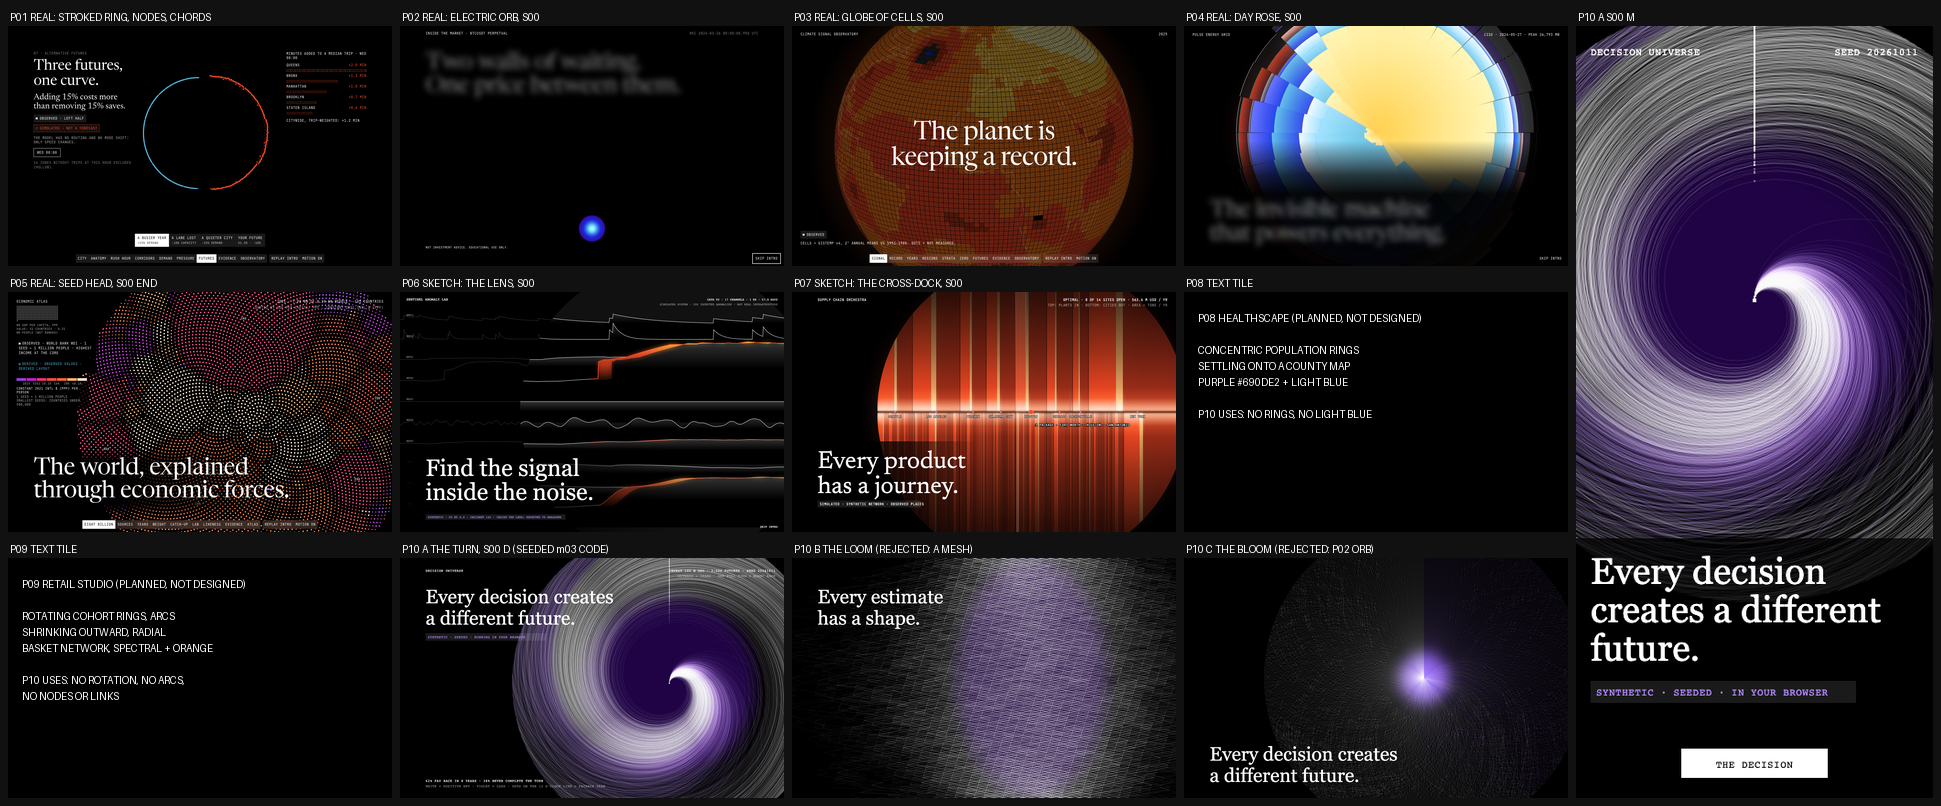
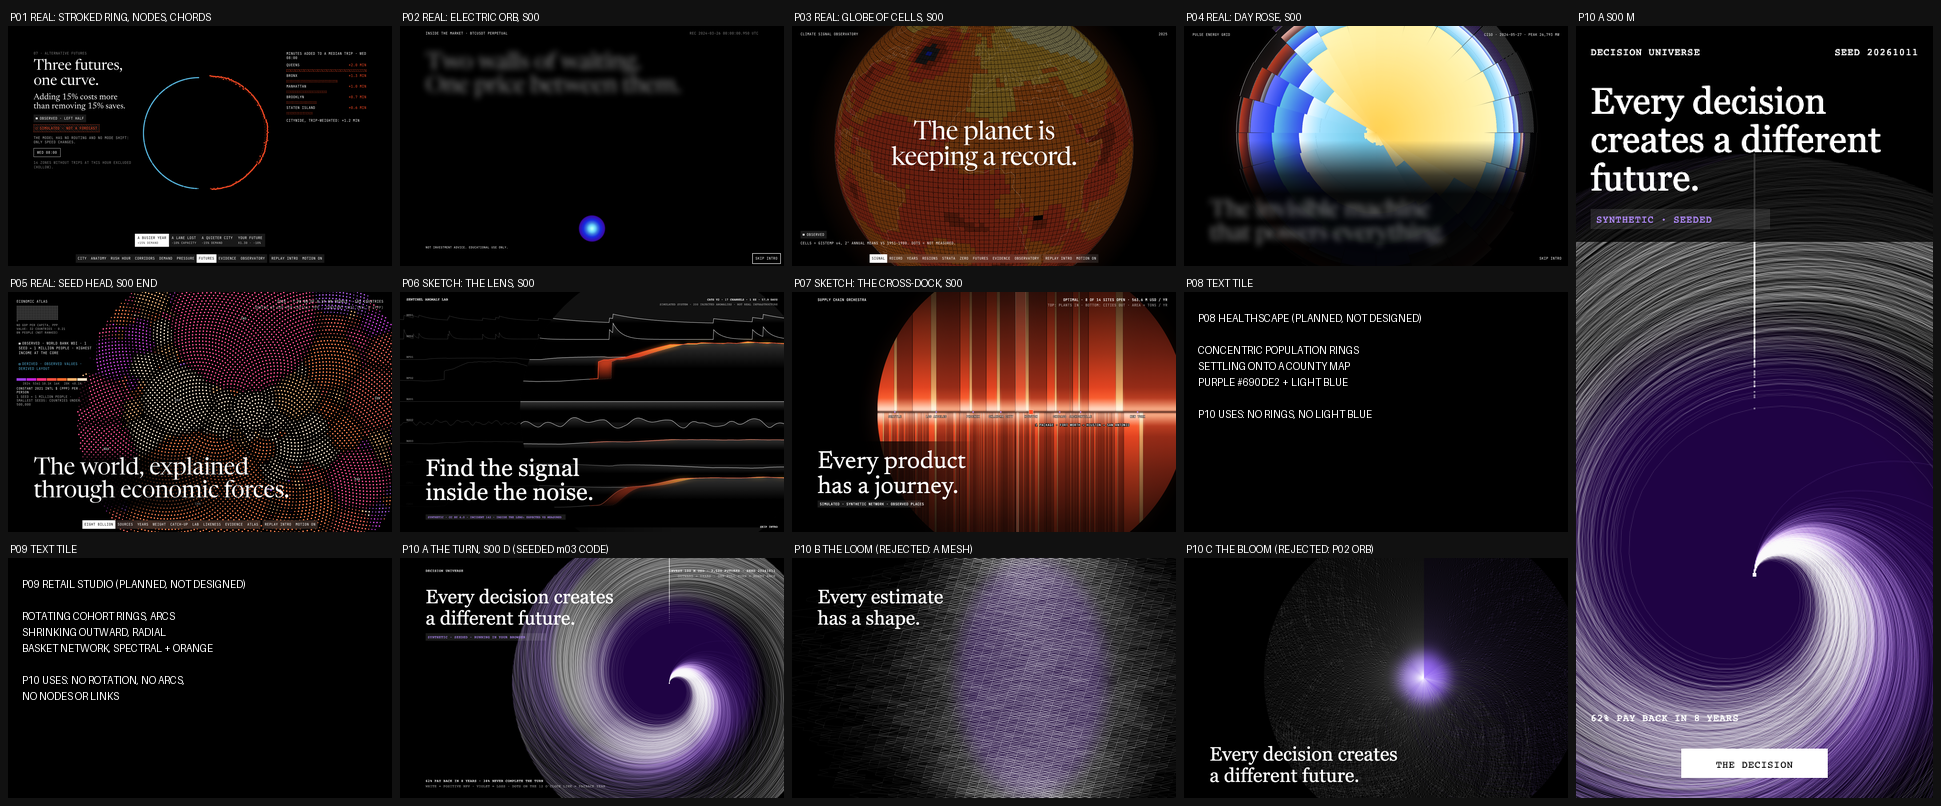
P10 creative: M statement-on-top composition, honest LAB parity table, compute-state chip, worker fallback
Claude-Session: https://claude.ai/code/session_01KTz1FYH3aWv8awYBpyrJYc

Changed region(s): [[0.8037, 0.031, 1.0, 0.9926]]

diff --git a/design/sketches/render_sketches.py b/design/sketches/render_sketches.py
@@ -115,15 +115,18 @@ def text_d(fs, cross):
 
 
 def text_m(fs, cross):
+    """M composition: statement at the TOP, the Turn below it (not P04/P05's disc-above, statement-below)."""
+    loss = sum(1 for _, v in fs if v < 0) / len(fs)
     return [
+        '<rect x="0" y="0" width="390" height="236" fill="#000" opacity=".78"/>',
         '<text x="16" y="32" font-size="11">DECISION UNIVERSE</text>',
         f'<text x="374" y="32" font-size="11" text-anchor="end">SEED {SEED}</text>',
-        '<rect x="0" y="560" width="390" height="284" fill="#000" opacity=".72"/>',
-        '<text class="serif" x="16" y="610" font-size="40">Every decision</text>',
-        '<text class="serif" x="16" y="652" font-size="40">creates a different</text>',
-        '<text class="serif" x="16" y="694" font-size="40">future.</text>',
-        '<rect x="16" y="716" width="290" height="24" fill="#ffffff1a"/>',
-        '<text x="22" y="732" font-size="11" style="fill:#b48cff">SYNTHETIC · SEEDED · IN YOUR BROWSER</text>',
+        '<text class="serif" x="16" y="96" font-size="40">Every decision</text>',
+        '<text class="serif" x="16" y="138" font-size="40">creates a different</text>',
+        '<text class="serif" x="16" y="180" font-size="40">future.</text>',
+        '<rect x="16" y="200" width="196" height="22" fill="#ffffff1a"/>',
+        '<text x="22" y="215" font-size="11" style="fill:#b48cff">SYNTHETIC · SEEDED</text>',
+        f'<text x="16" y="760" font-size="11">{round(100*(1-loss))}% PAY BACK IN 8 YEARS</text>',
         '<rect x="115" y="790" width="160" height="32" fill="#fff"/><text x="195" y="811" font-size="11" text-anchor="middle" style="fill:#000">THE DECISION</text>',
     ]
 
@@ -177,6 +180,6 @@ def bloom(name, w, h, n=1500):
 
 if __name__ == "__main__":
     turn("turn-s00-d", 1440, 900, 1010, 470, 590, 2500, text_d)
-    turn("turn-s00-m", 390, 844, 195, 300, 330, 1500, text_m)
+    turn("turn-s00-m", 390, 844, 195, 600, 460, 1500, text_m)
     loom("loom-s00-d", 1440, 900)
     bloom("bloom-s00-d", 1440, 900)

diff --git a/docs/VISUAL_DESIGN.md b/docs/VISUAL_DESIGN.md
@@ -60,6 +60,7 @@ These are inputs to the design. The design does not choose them.
   8. Attributions on screen: NBER Dehejia data page link plus the three papers (required by its terms), UCI German Credit citation (CC BY 4.0), Ishigami/Saltelli citations, HiGHS.
 - **Sketches** (original, rendered by `design/sketches/render_sketches.py` from the project's own seeded reference code; rasterized by `render_sheet.mjs`; composed by `compose_sheet.py`):
   - `turn-s00-d.png`, `turn-s00-m.png`: concept A at S00, D and M
+  - `m-sheet-p04-p05-p10.png`: the M composition beside the real P04 and P05 390x844 S00 frames
   - `loom-s00-d.png`: concept B (rejected)
   - `bloom-s00-d.png`: concept C, the plan's form (rejected)
   - `distinctness-sheet.png`: the contact-scale comparison against P01-P09
@@ -284,7 +285,7 @@ The FUTURES nav item targets S00's end state (top of page). Total about 2,550vh.
 
 | State | D 1440x900 | T 768x1024 | M 390x844 | Notes |
 |---|---|---|---|---|
-| **G0 Giant** (S00, S01 start, S08 echo) | c (1010, 470), **R 590** (diameter 1.31 x frame height). Left arc visible x 420-560 at mid-height; top, right and bottom cropped | c (470, 700), R 620 (1.21 x). Headline band x 48-520, y 96-300 over a left-to-right top scrim (x 0-540); the top arc visible upper right (x 560-768, y 80-200) outside the scrim; left, right and bottom cropped | c (195, 300), R 460 (diameter 1.09 x frame height, 2.36 x frame width). Centre and the 12 o'clock ray in view; headline band y 560-740 under a scrim | **Statement never lower-left on D/T** (review note). The decision square and at least 0.8R of the 12 o'clock ray are visible on every viewport. M is under 1.2 x height by design: a larger R hides the centre behind the statement |
+| **G0 Giant** (S00, S01 start, S08 echo) | c (1010, 470), **R 590** (diameter 1.31 x frame height). Left arc visible x 420-560 at mid-height; top, right and bottom cropped | c (470, 700), R 620 (1.21 x). Headline band x 48-520, y 96-300 over a left-to-right top scrim (x 0-540); the top arc visible upper right (x 560-768, y 80-200) outside the scrim; left, right and bottom cropped | c (195, 600), R 460 (diameter 1.09 x frame height, 2.36 x frame width). **Statement at the top** (y 64-230 over a top scrim), the Turn below it with the decision square at y 600 and the payback ladder rising toward the statement; the bottom is cropped behind the MENU pill. This is the inverse of P04's and P05's M (disc above, statement below), checked on `m-sheet-p04-p05-p10.png` | **Statement never lower-left on D/T** (review note). The decision square and at least 0.8R of the 12 o'clock ray are visible on every viewport (on M the ray from y 600 to y 232, 0.8R). M is under 1.2 x height by design: the centre must stay in the frame below the statement |
 | G1 Aside (S01 compare, S02-S03b backdrop at 20%) | c (1120, 470), R 330 | c (384, 700), R 280 | c (195, 250), R 170 | |
 | G2 Scene (S03a) | c (1000, 470), R 380 | c (384, 560), R 330 | c (195, 330), R 180 | |
 | PAIR (S01 step 2) | A c (700, 470), B c (1120, 470), R 230 each | c (384, 380) and (384, 760), R 170 | c (195, 270) and (195, 560), R 125 | Same draw indices, keyed; a hovered index lights in both |
@@ -292,7 +293,7 @@ The FUTURES nav item targets S00's end state (top of page). Total about 2,550vh.
 | G5 Lab (THE LAB) | c (980, 470), R 360 | c (384, 520), R 300 | c (195, 280), R 170 | |
 
 - **Interpolation.** Between states, `c` interpolates linearly and `R` in log space: camera moves only. They never animate data.
-- **Sketches.** `turn-s00-d.png` (G0 D) and `turn-s00-m.png` (an earlier M at R 330; the build uses R 460).
+- **Sketches.** `turn-s00-d.png` (G0 D) and `turn-s00-m.png` (G0 M at the spec geometry, statement on top). `m-sheet-p04-p05-p10.png` puts the M sketch beside the real P04 and P05 390x844 S00 frames: both of theirs are disc-above, statement-below; P10 M is statement-above, Turn-below.
 
 ### 3.4 Scenes
 
@@ -309,10 +310,10 @@ No spinners, no artificial delays.
 
 #### S00 Opening: the First Turn (overlay, 4.8s or less)
 
-- **Composition** (timeline in MOTION_SYSTEM 5.1): black; the mono wordmark top-left; the 4px decision square at G0 `c` with `INVEST 100 M USD?` beside it; eight beats (years 1-8): the threads extend outward one year per beat, together at first, separating as they wind; payback squares appear on the 12 o'clock ray as threads close; the glow fades in after beat 8; the headline sharpens; the nav enters.
-- **Per viewport:** D headline 72px, 2 lines, x 96, y 110-260, over a top-left scrim (x 0-760, y 0-330, black 88% to 0). T 56px, 3 lines, x 48, y 96-300, full-width top scrim. M 40px, 3 lines, y 580-700, scrim band y 540-760.
-- **Corner labels.** Top-left `DECISION UNIVERSE`. Top-right line 1 `INVEST {{investment_mean}} M USD · {{n}} FUTURES · SEED {{seed}}`; line 2 (50%) the unit line.
-- **Chip under the headline:** `SYNTHETIC · SEEDED · RUNNING IN YOUR BROWSER` from the first frame.
+- **Composition** (timeline in MOTION_SYSTEM 5.1): black; the mono wordmark top-left; the 4px decision square at G0 `c` with `INVEST 100 M USD?` (the median, see corner labels) beside it; eight beats (years 1-8): the threads extend outward one year per beat, together at first, separating as they wind; payback squares appear on the 12 o'clock ray as threads close; the glow fades in after beat 8; the headline sharpens; the nav enters.
+- **Per viewport:** D headline 72px, 2 lines, x 96, y 110-260, over a top-left scrim (x 0-760, y 0-330, black 88% to 0). T 56px, 3 lines, x 48-520, y 96-300, left-to-right top scrim. M 40px, 3 lines, y 64-180, top scrim y 0-236; the caption sits at y 750 above the MENU pill.
+- **Corner labels.** Top-left `DECISION UNIVERSE`. Top-right line 1 `INVEST {{investment_median}} M USD (MEDIAN) · {{n}} FUTURES · SEED {{seed}}`, where `investment_median = exp(m03.environment.investment.mu)` = 100 (the lognormal's mean is about 101.1, so it is never labelled as the mean); line 2 (50%) the unit line.
+- **Chip under the headline:** `SYNTHETIC · SEEDED` from the first frame. `· RUNNING IN YOUR BROWSER` is appended only when the worker has returned the paths (bound to the compute state, never static). **Worker failure fallback:** the same generator and path code (one TS module, imported by both) runs on the main thread for the LOW-tier 1,200 paths (a few ms), and the line reads `· RUNNING IN YOUR BROWSER (MAIN THREAD)`; the statement is still true.
 - **Caption bottom-left (D) / under the chip (T/M):** `{{payback_share}}% PAY BACK IN 8 YEARS · {{loss_share}}% NEVER COMPLETE THE TURN`; second line `WHITE = POSITIVE NPV · VIOLET = LOSS · SQUARES ON THE TOP LINE = PAYBACK YEAR`.
 - **LCP rule.** `h1[data-hero]` is in the DOM from first paint as ghost text; WebGL init waits for first paint; the threads are never on the LCP path.
 - **Insight.** One decision, thousands of futures; about six in ten close the circle.
@@ -380,9 +381,25 @@ Footer line on this scene: `EVERYTHING ELSE ON THIS SITE IS SYNTHETIC AND SEEDED
 
 #### THE LAB: ten instruments (normal flow, 100dvh minimum)
 
-- Left rail (floating glass controls, never a solid panel): the Turn's decision levers (DR-2 parameters), SEED (a number field; changing it re-runs everything seeded), FUTURES DRAWN.
+- Left rail (floating glass controls, never a solid panel): the Turn's decision levers (DR-2 parameters), SEED (a number field), FUTURES DRAWN.
 - The Turn at G5.
-- Under it, the **instrument list**: ten rows (`meta.modules`), each: number, name, tag chip, `RUN IN YOUR BROWSER`, result `MATCHES PYTHON REFERENCE (k OF k)` or `MISMATCH`, elapsed ms. `RUN ALL TEN`.
+- Under it, the **instrument list**: ten rows (`meta.modules`), each: number, name, tag chip, what runs where (below), `RUN IN YOUR BROWSER`, the result and elapsed ms. `RUN ALL TEN`.
+- **What actually runs in the browser** (from each artifact's `spec`, read 2026-10-11; the row prints its column 3 verbatim):
+
+| Module | Recomputed in the browser, with parity | Stays PRECOMPUTED · PYTHON REFERENCE | Seed that drives it |
+|---|---|---|---|
+| m01 Distributions | pdf, cdf, quantile on the published grids; normalization checks | none | none (deterministic) |
+| m02 Sampling | xoshiro128** u32 stream, uniforms, normals | none | the SEED field (vectors at 20261011 and the 3 `seed_vectors`) |
+| m03 Monte Carlo | the hero paths and the run summary; the `vectors` | the 100,000 convergence prefix shown as a table row | the SEED field (vectors at their own published seeds) |
+| m04 Bayes | conjugate posteriors, credible and confidence intervals, exact coverage, the sequential path | none | the sequential path: SEED field (`m04.sequential.seed`) |
+| m05 Forecast | SES and AR(1) fits and intervals on the published series | the 2,000-replicate coverage study (numpy PCG64, `m05.spec.coverage_study`) | none in the browser |
+| m06 Thresholds | cost curve and optimum from the published test probabilities | the model fit, Platt scaling, repeated splits (`m06.spec.scope`) | none in the browser |
+| m07 LP / Pareto | epsilon solves with HiGHS-wasm | none | none (deterministic) |
+| m08 Sensitivity | Ishigami values, analytic indices, Saltelli/Jansen estimates | none | the published replicate seeds (`m08.vectors`) |
+| m09 Counterfactuals | model scores and the exhaustive minimal-change search | the model fit | none (deterministic) |
+| m10 Causal | the four estimators on the SYNTHETIC confounded world (`m10.vectors`) | every NSW/PSID number and its bootstrap CI (microdata not shipped; numpy PCG64; `m10.spec.scope`) | the vectors' own seeds |
+
+- **Seed rules.** The SEED field drives only the xoshiro-seeded views (m02, m03, the m04 sequential path). PRECOMPUTED parts never change when the seed changes and say so. Parity is shown only where a published vector exists: at seed 20261011 (and the published vector seeds) the row shows `MATCHES PYTHON REFERENCE (k OF k)` or `MISMATCH`; at any other seed it shows `NO PUBLISHED VECTOR FOR SEED {{seed}} · COMPUTED IN YOUR BROWSER`, never MATCH.
 - **Reset:** defaults and seed 20261011.
 
 #### S08 Conclusion: every decision, again (200vh)
@@ -425,7 +442,7 @@ For each: inputs, state, data, output, keyboard, mobile, reduced motion, test.
 9. **Trade-off [P].** Inputs: epsilon slider. Output: a live solve point. Test: objective matches `m07.vectors` within tolerance; status word shown.
 10. **What Matters [P].** Inputs: N stepper. Test: estimates at the published N equal `m08.sobol` within tolerance; analytic values equal the closed form.
 11. **The Unchosen [P].** Inputs: estimator, sample, synthetic toggle. Test: every estimator row prints a gap equal to estimate minus benchmark; the benchmark is visible whenever any observational estimate is.
-12. **Seed of the World / Run All Ten [P].** Inputs: seed field, levers, RUN. Test: at seed 20261011 every module reports MATCH; a changed seed changes the threads and the S08 line.
+12. **Seed of the World / Run All Ten [P].** Inputs: seed field, levers, RUN. Test: at seed 20261011 every module's browser-recomputed part reports MATCH against its published vectors; PRECOMPUTED parts are labelled and unchanged by any seed; at another seed the seeded rows show `NO PUBLISHED VECTOR FOR SEED`, the threads and the S08 line change, and nothing else does.
 13. **Thread Inspector.** Hover/tap/focus a thread: its draw index, the five inputs, NPV, payback year or `NEVER`. Keyboard Left/Right through threads sorted by NPV. Text alternative: a table of 50 sampled futures.
 14. **Every Decision, Again.** The G0 Turn on the visitor's state. Test: the S08 counts equal the LAB's last run.
 
@@ -435,7 +452,7 @@ For each: inputs, state, data, output, keyboard, mobile, reduced motion, test.
 
 Design copy is marked; every number is a placeholder bound in section 6.
 
-- **S00:** "Every decision creates a different future." / chip `SYNTHETIC · SEEDED · RUNNING IN YOUR BROWSER`.
+- **S00:** "Every decision creates a different future." / chip `SYNTHETIC · SEEDED`, plus `· RUNNING IN YOUR BROWSER` once the worker has returned.
 - **S01:** "Same chance. Another decision. Different futures." / "Each line is one simulated world. Under both decisions it meets the same luck; only the choice differs."
 - **S02:** card titles "The seed", "Shapes of chance", "Real applicants", "Real earnings".
 - **S03a:** "More futures do not make the future less uncertain. They make the average less uncertain."
@@ -505,7 +522,7 @@ The build fails review if any of these is true:
 5. **The Turn lies:** a thread not equal to a seeded future; angle not equal to `360° × recovered`; radius not linear in years; a colour not equal to the sign of NPV; a payback square without a thread reaching 1; threads of two decisions mixed in one Turn; a decision change that does not keep draw indices (common random numbers).
 6. **Interval confusion:** a credible interval called confidence or drawn as brackets; a confidence interval drawn filled; a prediction interval without its covered count.
 7. **Counterfactual or causal overreach:** a module-9 result without `MODEL COUNTERFACTUAL · NOT A CAUSAL CLAIM`; any observational estimate shown without the NSW benchmark and its gap; the DAG assumptions not visible in S07.
-8. **Live compute mislabelled:** any recompute without `RUNNING IN YOUR BROWSER` and its seed; any use of "AI", "smart", "intelligent"; a precomputed number presented as live.
+8. **Live compute mislabelled:** any recompute without `RUNNING IN YOUR BROWSER` and its seed; that line shown before the computation has returned; a PRECOMPUTED number that changes with the seed; MATCH shown at a seed with no published vector; any use of "AI", "smart", "intelligent"; a precomputed number presented as live.
 9. **Seeds or tags missing:** a seeded view without its seed; a data visual without a tag chip; SYNTHETIC missing from the first S00 frame.
 10. **Attribution missing:** the NBER link and three papers missing from S02 card 4 or S07; the UCI citation missing from S05; HiGHS missing from S06a.
 11. **Any number is not bound** to a contracted field, a stated arithmetic of published inputs, a live recompute with parity, or a DR.
@@ -517,6 +534,6 @@ The build fails review if any of these is true:
 17. **Contrast fails:** `#690DE2` as text or a line; 50% white under 13px; light blue on any line.
 18. **A reference asset is used** (Blink fonts, wordmark styling, copy, images, video).
 19. **The closing doesn't echo the opening:** S08 must be the G0 Turn, the decision square, the eight-beat growth and the S00 statement.
-20. **The giant circle is undersized or composed like P04/P05:** diameter under 1.2 x frame height on D or T at G0 or S08 p 0.75 (M: under 2.2 x frame width); the decision square or 0.8R of the 12 o'clock ray out of view; the S00 statement lower-left on D or T.
+20. **The giant circle is undersized or composed like P04/P05:** diameter under 1.2 x frame height on D or T at G0 or S08 p 0.75 (M: under 2.2 x frame width); the decision square or 0.8R of the 12 o'clock ray out of view; the S00 statement lower-left on D or T, or below the Turn on M.
 21. **A U+2014 or U+2015** appears in site copy.
 22. **Real entity implied:** the synthetic project named as a real company or market; German Credit applicants described as current people; NSW results described as a current programme's effect.

diff --git a/docs/MOTION_SYSTEM.md b/docs/MOTION_SYSTEM.md
@@ -128,10 +128,10 @@ Format: **Trigger · Initial → End · Duration / Easing · Sync · Interruptio
 
 | t (ms) | Event | Duration / easing |
 |---|---|---|
-| 0 | Black; ghost headline and chip already painted (LCP); wordmark top-left | none |
+| 0 | Black; ghost headline and the `SYNTHETIC · SEEDED` chip already painted (LCP); wordmark top-left | none |
 | 150 | SKIP INTRO visible (bottom right), focused | 200 fast |
 | 300 | The decision square scales 0 → 1 at G0 `c`; `INVEST {{investment}} M USD?` types in beside it word by word (blur to sharp, 80ms per word) | 350 premium |
-| 900 | Worker returns the hero paths (it starts at first paint + idle; if late, beat 1 waits, the label reads `DRAWING {{n}} FUTURES · SEED`) | none |
+| 900 | Worker returns the hero paths (it starts at first paint + idle; if late, beat 1 waits, the label reads `DRAWING {{n}} FUTURES · SEED`). Only now is `· RUNNING IN YOUR BROWSER` appended to the chip (200 fast). If the worker fails or has not answered by 2,500ms, the shared path module runs on the main thread for the LOW-tier 1,200 paths and the chip reads `· RUNNING IN YOUR BROWSER (MAIN THREAD)` | none |
 | 1000-3800 | **Eight growth beats**: `u_years` 0 → 1 → ... → 8, 350ms per beat, symmetric ease within each beat; payback squares pop in (200ms) as `u_years` passes them | 8 x 350 |
 | 3800 | Glow pass fades 0 → 40% | 600 smooth |
 | 3900 | Headline sharpens word by word (ghost → sharp), caption numbers tween from 0 | 600 smooth |
@@ -273,7 +273,8 @@ React + TS strict + Vite + Tailwind (shared shell). Lenis plus the shared single
 7. S05: cost readout equals the recomputed formula at 20 handle positions; at cost 5 the minimum equals `m06.optimum.t_opt_grid`.
 8. S06a: live solve objective within `m07.tolerance`; no `.wasm` request before S06.
 9. S07: whenever an observational row is visible, the benchmark line is visible; gaps equal estimate minus benchmark.
-10. Parity: THE LAB RUN ALL TEN shows MATCH for all ten at seed 20261011.
+10. Parity: THE LAB RUN ALL TEN shows MATCH for every browser-recomputed part at seed 20261011; PRECOMPUTED parts (m05 coverage, m06 fit and splits, m10 NSW) are labelled and identical across seeds; at seed 7 the seeded rows read `NO PUBLISHED VECTOR FOR SEED 7` and no row reads MATCH.
+17. Compute-state honesty: the S00 chip has no `RUNNING IN YOUR BROWSER` before the worker's first message; with the worker blocked (Playwright route abort), the main-thread fallback draws 1,200 threads and the chip says MAIN THREAD.
 11. Sticky scenes release at track end; reverse and rapid scroll; nav jumps land at rest points; Back/Forward; resize mid-scene in both scrollbar modes (ED #39).
 12. Reduced motion: no pinned track; all controls work; no trap.
 13. Tiering: forced `?tier=low` renders Canvas2D with the unit line's drawn count; a simulated slow frame demotes HIGH to MED once.
